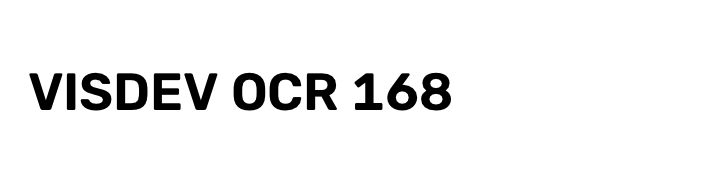
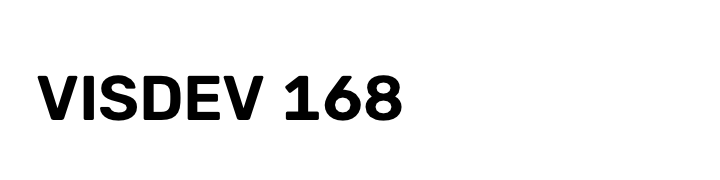
加上字元範本：讀出 VISDEV 168 並畫出外框
狀態列寫文字、個數和最低分。讀錯就不合格。
讀到的字可另送一行 VISDEV,TEXT，不改產線 OK、NG 那一行。色彩數字和 Windows 開 COM 的方式沒有改。

Changed region(s): [[0.0306, 0.3889, 0.6417, 0.6667]]

diff --git a/app/static/index.html b/app/static/index.html
@@ -22,6 +22,7 @@
             <button type="button" data-cmd="caliperTemplate">卡尺</button>
             <button type="button" data-cmd="defectTemplate">瑕疵</button>
             <button type="button" data-cmd="colorTemplate">色彩</button>
+            <button type="button" data-cmd="charsTemplate">字元</button>
             <button type="button" data-cmd="stripeTemplate">條紋寬度</button>
             <button type="button" data-cmd="lineTemplate">產線</button>
             <button type="button" data-cmd="lineCameraTemplate">產線相機</button>
@@ -306,6 +307,7 @@ endfor</pre>
         <li>零件檢測：<code>samples/parts.png</code>，8 個零件。狀態列寫個數。</li>
         <li>瑕疵：<code>samples/hard_contrast.png</code>。暗塊 1 個、面積 3550；亮點 1 個、面積 144。預設灰階是暗塊 0 到 40、亮點 210 到 255。圖形視窗可以改這兩個範圍，再按執行。</li>
         <li>色彩：<code>samples/color_part.png</code>。綠塊面積 1200、色調 60。紅塊色調是 0，灰底飽和度是 0，都不計。預設色調 50 到 70、面積 1100 到 1300。圖形視窗可以改這兩個範圍。超出時判定不合格，區域是紅色。</li>
+        <li>字元：<code>samples/ocr_label.png</code> 寫著 VISDEV 168。<code>Chars</code> 是讀到的字，狀態列寫文字。外框畫在圖上。讀對且信心至少 0.5 才合格，否則是紅色。這支用本機引擎，不把圖送到雲端。</li>
         <li>邊緣量測：<code>samples/gauge.png</code>。狀態列寫間距。</li>
         <li>卡尺：同一張圖。直徑約 83.93，寬 140，高 90。預設公差是直徑 80 到 90、寬 130 到 150、高 80 到 100。圖形視窗可以改上下限，再按執行。卡尺、條紋和瑕疵改過的範圍會記在這台電腦，再打開同一支範本會填回去。按「預設」回到程式裡的數字。存進專案的程式以檔案裡的數字為準。超出的線是紅色。</li>
         <li>條紋寬度：<code>samples/stripes.png</code>。最寬的亮條是 22，預設公差 20 到 24。圖形視窗可以改上下限，再按執行。超出時十字是紅色。</li>
@@ -318,7 +320,7 @@ endfor</pre>
       </ul>
       <p>點量規或直線量規時，可以按「線」在圖上拖。起點到終點的方向會保留。圖上已有影像時，確認前會畫出沿這條線找到的邊緣和首尾間距。</p>
       <h3>把結果送到外面</h3>
-      <p>產線輸出每一張寫一行，TCP 和序列埠相同：<code>VISDEV,OK 或 NG,合格張數,不合格張數,檔名</code>，結尾換行。合格、不合格會寫成 OK、NG。檔名用英文。範本用 loopback，<code>Wire</code> 讀回那 5 行，所以合格仍是 3、不合格仍是 2。送到外面時，把 <code>open_socket_connect</code> 的 loopback 改成主機和埠號，或改成 <code>open_serial ('COM3', Link)</code>，並拿掉 <code>receive_data</code>。Windows 開 COM 仍用原來的 API，不在這一行裡重開。</p>
+      <p>產線輸出每一張寫一行，TCP 和序列埠相同：<code>VISDEV,OK 或 NG,合格張數,不合格張數,檔名</code>，結尾換行。合格、不合格會寫成 OK、NG。檔名用英文。範本用 loopback，<code>Wire</code> 讀回那 5 行，所以合格仍是 3、不合格仍是 2。讀到的字另送一行 <code>VISDEV,TEXT,文字</code>，不改上面那一行的欄位。送到外面時，把 <code>open_socket_connect</code> 的 loopback 改成主機和埠號，或改成 <code>open_serial ('COM3', Link)</code>，並拿掉 <code>receive_data</code>。Windows 開 COM 仍用原來的 API，不在這一行裡重開。</p>
       <h3>標定</h3>
       <p>棋盤寫 <code>'5,7,10'</code>，也可以用 <code>.cpd</code> 或 <code>.descr</code>。多台相機時，每一台的第 k 組要是同時看到的同一塊板。<code>camera/pose</code> 是相對第 0 台的姿態，第 0 台是 0。標完的圖可以點某一張看原圖，再點一下回到全部。</p>
       <h3>存檔與 Windows</h3>
@@ -387,10 +389,10 @@ endfor</pre>
   <script src="/static/program_file.js?v=1"></script>
   <script src="/static/operator_call.js?v=1"></script>
   <script src="/static/pick_sync.js?v=2"></script>
-  <script src="/static/run_source.js?v=8"></script>
+  <script src="/static/run_source.js?v=9"></script>
   <script src="/static/tolerance.js?v=3"></script>
   <script src="/static/var_list.js?v=1"></script>
   <script src="/static/highlight_sync.js?v=3"></script>
-  <script src="/static/app.js?v=101"></script>
+  <script src="/static/app.js?v=102"></script>
 </body>
 </html>

diff --git a/app/static/app.js b/app/static/app.js
@@ -2544,6 +2544,9 @@ window.VisDevCommands = {
   colorTemplate() {
     return VisDevCommands.openNamedTemplate("inspect_color.viz", "這是色彩範本。綠塊面積 1200、色調 60。紅塊不算。超出就不合格。");
   },
+  charsTemplate() {
+    return VisDevCommands.openNamedTemplate("inspect_chars.viz", "這是字元範本。讀 VISDEV 168。狀態列寫文字。讀錯就不合格。");
+  },
   stripeTemplate() {
     return VisDevCommands.openNamedTemplate("inspect_stripe.viz", "這是條紋寬度範本。執行後看 Width。");
   },

diff --git a/tests/test_run_source.js b/tests/test_run_source.js
@@ -91,5 +91,12 @@ const color = run.resultSummary([
   { name: "Area", text: "[1200]" },
 ]);
 assert(color === "判定 合格 · 個數 1 · 色調 60 · 面積 1200", "a color run names hue and area");
+const chars = run.resultSummary([
+  { name: "Judge", text: "'合格'" },
+  { name: "Chars", text: "'VISDEV 168'" },
+  { name: "Count", text: "1" },
+  { name: "Score", text: "[0.91]" },
+]);
+assert(chars === "判定 合格 · 文字 VISDEV 168 · 個數 1 · 最低分 0.91", "a character run names the text");
 
 console.log("run source ok");

diff --git a/app/static/run_source.js b/app/static/run_source.js
@@ -26,6 +26,7 @@
     ["Height", "高"],
     ["Gap", "間距"],
     ["BaselineX", "基線"],
+    ["Chars", "文字"],
     ["Text", "條碼"],
     ["QrText", "二維碼"],
     ["Count", "個數"],

diff --git a/tests/test_engine.py b/tests/test_engine.py
@@ -3516,6 +3516,24 @@ def test_inspect_color_template_measures_green_area_and_hue():
     assert "#ff2a2a" in failed_colors
 
 
+def test_inspect_chars_template_reads_visdev_168():
+    session = run_source((ROOT / "samples" / "inspect_chars.viz").read_text(encoding="utf-8"))
+    assert session.error is None, session.error
+    assert session.vars["Chars"] == "VISDEV 168"
+    assert int(session.vars["Count"]) == 1
+    assert float(session.vars["Score"]) >= 0.5
+    assert session.vars["Judge"] == "合格"
+    assert session.display.base is not None
+    assert len(session.vars["Outline"].contours) >= 1
+    texts = [shape.get("text") for shape in session.public_state()["display"]["shapes"]]
+    assert "VISDEV 168" in texts
+    wrong = (ROOT / "samples" / "inspect_chars.viz").read_text(encoding="utf-8").replace("'VISDEV 168'", "'NOPE'")
+    failed = run_source(wrong)
+    assert failed.error is None, failed.error
+    assert failed.vars["Chars"] == "VISDEV 168"
+    assert failed.vars["Judge"] == "不合格"
+
+
 def test_gauge_line_failure_keeps_the_image_and_says_what_to_try():
     session = run_source(
         "Vizion.read_image (Image, 'samples/gauge.png')\n"
@@ -3638,6 +3656,14 @@ def test_line_result_goes_out_on_tcp_and_serial():
     )
     assert serial.error is None, serial.error
     assert serial.vars["Line"] == "VISDEV,NG,1,2,ng_01.png\n"
+    told = run_source(
+        "Vizion.open_serial ('loopback', Port)\n"
+        "Vizion.send_text_result (Port, 'VISDEV 168')\n"
+        "Vizion.send_line_result (Port, 'NG', 0, 1, 'ng_01.png')\n"
+        "Vizion.read_serial (Port, 47, Line)\n"
+    )
+    assert told.error is None, told.error
+    assert told.vars["Line"] == "VISDEV,TEXT,VISDEV 168\nVISDEV,NG,0,1,ng_01.png\n"
     assert format_line_result("合格", 3, 0, "ok_03.png") == "VISDEV,OK,3,0,ok_03.png\n"
     refused = run_source(
         "Vizion.open_serial ('loopback', Port)\n"

diff --git a/app/engine/chapters/line_out.py b/app/engine/chapters/line_out.py
@@ -34,6 +34,13 @@ def format_line_result(judge, ok_count, ng_count, file_name) -> str:
     return f"VISDEV,{verdict},{ok},{ng},{name}\n"
 
 
+def format_text_result(chars) -> str:
+    raw = text(chars, "Chars").strip().strip("'\"")
+    if any(ch in raw for ch in ",\r\n") or not raw.isascii():
+        raise ValueError("文字只能用英文、數字、空格和 -，中間不能有逗號")
+    return f"VISDEV,TEXT,{raw}\n"
+
+
 @operator(
     "通訊",
     [],
@@ -56,11 +63,33 @@ def format_line_result(judge, ok_count, ng_count, file_name) -> str:
 def send_line_result(link, judge, ok_count, ng_count, file_name, *, ctx):
     from ..objects import Result
 
-    payload = format_line_result(judge, ok_count, ng_count, file_name)
+    _write_link(link, format_line_result(judge, ok_count, ng_count, file_name), ctx)
+    return Result([], [])
+
+
+def _write_link(link, payload, ctx):
     if isinstance(link, SocketLink):
         send_data(link, payload, ctx=ctx)
     elif isinstance(link, SerialPort):
         write_serial(link, payload, ctx=ctx)
     else:
         raise TypeError("Link 必須是 TCP 連線或序列埠")
+
+
+@operator(
+    "通訊",
+    [],
+    [],
+    [P("Link", "TCP 連線或序列埠"), P("Chars", "讀到的文字", "''")],
+    [],
+    "送出讀到的文字",
+    "寫一行 VISDEV,TEXT,文字。結尾是換行。文字用英文、數字、空格或 -，不能有逗號。"
+    "這一行和產線的 OK、NG 那一行不同，不改合格張數。TCP 和序列埠用同一行。"
+    "Windows 的 COM 仍用原來的開啟方式。",
+    "Vizion.send_text_result (Link, 'VISDEV 168')",
+)
+def send_text_result(link, chars, *, ctx):
+    from ..objects import Result
+
+    _write_link(link, format_text_result(chars), ctx)
     return Result([], [])

diff --git a/app/engine/chapters/code_ops.py b/app/engine/chapters/code_ops.py
@@ -1047,6 +1047,33 @@ def get_text_result(result, result_name, *, ctx):
 
 @operator(
     "文字",
+    [],
+    [P("Outline", "字塊外框")],
+    [P("TextResultID", "文字結果")],
+    [],
+    "取出字塊外框",
+    "每個字塊一條閉合輪廓。沒有字時是空的。用來畫在圖上，不改讀到的字。",
+    "Vizion.get_text_object (Outline, TextResultID)",
+)
+def get_text_object(result, *, ctx):
+    if not isinstance(result, TextResult):
+        raise TypeError("TextResultID 必須是 find_text 的結果")
+    if result.closed:
+        raise RuntimeError("文字結果已經 clear_text_result")
+    contours = []
+    for item in result.words:
+        pts = np.asarray(item["points"], np.float64).reshape(-1, 2)
+        ring = [[float(point[0]), float(point[1])] for point in pts]
+        if len(ring) < 2:
+            continue
+        if ring[0] != ring[-1]:
+            ring.append(ring[0])
+        contours.append(ring)
+    return Result([XLD(max(1, result.width), max(1, result.height), contours)], [])
+
+
+@operator(
+    "文字",
     [P("Character", "要讀的區域"), P("Image", "灰階或彩色影像")],
     [],
     [P("TextModel", "文字模型")],

diff --git a/app/engine/samples_gen.py b/app/engine/samples_gen.py
@@ -293,7 +293,7 @@ def write_hard_zernike(path: Path):
 
 def write_ocr_label(path: Path):
     image = np.full((180, 720, 3), 255, np.uint8)
-    cv2.putText(image, "VISDEV OCR 168", (28, 110), cv2.FONT_HERSHEY_SIMPLEX, 1.8, (0, 0, 0), 3, cv2.LINE_AA)
+    cv2.putText(image, "VISDEV 168", (36, 120), cv2.FONT_HERSHEY_SIMPLEX, 2.2, (0, 0, 0), 5, cv2.LINE_8)
     write_cv_image(path, image)
 
 

diff --git a/README.md b/README.md
@@ -38,7 +38,7 @@ uvicorn app.main:app --host 127.0.0.1 --port 8765
 - **載入影像**把圖放進 `workspace/`，路徑可寫進 `read_image`。
 - **匯出 C#** 涵蓋讀圖、定義域、二值化、連通、篩選、矩形和圓形形態學、個數和重心。
 
-執行是 F5，單步是 F6，步進程序是 F7。跑完後，狀態列和圖形視窗會寫出直徑、寬度、間距、條碼、個數、合格或不合格。卡尺、條紋和瑕疵的上下限顯示在圖形視窗，改完再按執行即可。瑕疵這裡改的是灰階範圍。改過的範圍會記在這台電腦，再打開同一支範本會填回去。按「預設」回到程式裡的數字。產線範本讀 `samples/line_batch`，合格 3 張、不合格 2 張。不合格的圖在 `workspace/line_ng`，明細在 `workspace/line_result.csv`。這支用檔案資料夾，不開相機。產線相機用編號 0，Windows 仍先問 DirectShow，打不開再試 OpenCV。沒有相機時，請改跑檔案產線，用 `samples/line_batch`。按停止就停，已經計的張數留著。執行中狀態列也會寫出合格和不合格。明細在 `workspace/line_camera.csv`，每一列是這張的 OK 或 NG。出錯會關掉相機和 CSV。再跑一次會先清掉上一輪的不合格圖。`LastNg` 是最近一張不合格圖的檔名，全部合格時是空的。按「看不合格圖」可把它開回圖形視窗，再按一次回到程式畫面。按「看明細」可看 CSV，也可以只看不合格。點不合格那一列會打開那張圖。產線輸出把每一張的判定送成一行 `VISDEV,OK 或 NG,合格張數,不合格張數,檔名`。範本用 TCP loopback，`Wire` 讀回 5 行，合格仍是 3、不合格仍是 2。改成主機埠號或 COM 名稱就送到外面。Windows 開 COM 的方式沒有改。色彩範本讀 `samples/color_part.png`，綠塊面積 1200、色調 60，紅塊不算。色調超出 50 到 70，或面積超出 1100 到 1300，判定就是不合格。點算子名稱可改參數。有座標的算子可在圖上框選。說明選單裡的「使用說明」有每支範本和對應的數字。
+執行是 F5，單步是 F6，步進程序是 F7。跑完後，狀態列和圖形視窗會寫出直徑、寬度、間距、條碼、個數、合格或不合格。卡尺、條紋和瑕疵的上下限顯示在圖形視窗，改完再按執行即可。瑕疵這裡改的是灰階範圍。改過的範圍會記在這台電腦，再打開同一支範本會填回去。按「預設」回到程式裡的數字。產線範本讀 `samples/line_batch`，合格 3 張、不合格 2 張。不合格的圖在 `workspace/line_ng`，明細在 `workspace/line_result.csv`。這支用檔案資料夾，不開相機。產線相機用編號 0，Windows 仍先問 DirectShow，打不開再試 OpenCV。沒有相機時，請改跑檔案產線，用 `samples/line_batch`。按停止就停，已經計的張數留著。執行中狀態列也會寫出合格和不合格。明細在 `workspace/line_camera.csv`，每一列是這張的 OK 或 NG。出錯會關掉相機和 CSV。再跑一次會先清掉上一輪的不合格圖。`LastNg` 是最近一張不合格圖的檔名，全部合格時是空的。按「看不合格圖」可把它開回圖形視窗，再按一次回到程式畫面。按「看明細」可看 CSV，也可以只看不合格。點不合格那一列會打開那張圖。產線輸出把每一張的判定送成一行 `VISDEV,OK 或 NG,合格張數,不合格張數,檔名`。範本用 TCP loopback，`Wire` 讀回 5 行，合格仍是 3、不合格仍是 2。改成主機埠號或 COM 名稱就送到外面。Windows 開 COM 的方式沒有改。色彩範本讀 `samples/color_part.png`，綠塊面積 1200、色調 60，紅塊不算。色調超出 50 到 70，或面積超出 1100 到 1300，判定就是不合格。字元範本讀 `samples/ocr_label.png`，`Chars` 是 VISDEV 168，外框畫在圖上。讀錯就不合格。讀到的字可以另送一行 `VISDEV,TEXT,文字`，不改 OK、NG 那一行。點算子名稱可改參數。有座標的算子可在圖上框選。說明選單裡的「使用說明」有每支範本和對應的數字。
 
 要在 Windows 上打包，執行 `build_windows.bat`。需要 Python 3.9 或更新版本、`app/engine/visdev_match.pyd`，以及 PyInstaller。腳本會分別說明缺哪一個。執行檔在使用者的電腦上產出，是 `dist\VisDev\VisDev.exe`。
 

diff --git a/CHANGELOG.md b/CHANGELOG.md
@@ -32,6 +32,8 @@
 - 看明細可以只列出不合格的列。最後 20 列都是合格時，仍看得到較早的 NG。點不合格那一列會打開那張圖。CSV 檔不會被改寫。
 - 產線輸出範本仍是合格 3、不合格 2。每一張多送一行 `VISDEV,OK 或 NG,合格張數,不合格張數,檔名`。TCP 和序列埠同一行。這支用 loopback，`Wire` 是讀回來的 5 行。Windows 開 COM 的方式沒有改。
 - 色彩範本讀 `samples/color_part.png`。綠塊面積 1200、色調 60。紅塊和灰底不算。預設色調 50 到 70、面積 1100 到 1300。超出時判定不合格，區域改成紅色。產線計數沒有改。
+- 字元範本讀 `samples/ocr_label.png`。`Chars` 是 VISDEV 168。字塊外框畫在圖上。只有一塊、信心至少 0.5 才合格，否則圖上的字是紅色。用本機引擎，不把圖送到雲端。色彩的面積和色調沒有改。
+- 讀到的字可以另送一行 `VISDEV,TEXT,文字`。產線的 OK、NG 那一行欄位不變。TCP 和序列埠同一條路。Windows 開 COM 的方式沒有改。
 - 點量規和直線量規可以在圖上拖一條線。起點到終點的方向會保留，並填進列和行。確認列會寫出這條線的長度。圖上已有影像時，會先畫出沿這條線找到的邊緣和首尾間距。
 - 程式執行中只移動箭頭和該行的時間，不再每一步重算整份語法著色。
 - 打字或單步時，語法著色只重畫有改過的行。沒有改的行留著原來的元素，捲動和游標留在原處。`Vizion.read_image` 這類呼叫整段著成算子顏色。行號和該行時間也只改有變動的列。不到 0.001 毫秒的時間會照字顯示。

diff --git a/PLAN.md b/PLAN.md
@@ -4,13 +4,13 @@
 
 ## 已完成
 
-色彩範本讀 `samples/color_part.png`。綠塊面積 1200、色調 60。紅塊和灰底不算。合格窗口是色調 50 到 70、面積 1100 到 1300。超出時判定不合格，區域改成紅色。產線計數沒有改。
+字元範本讀 `samples/ocr_label.png`。`Chars` 是 VISDEV 168，字塊外框畫在圖上。只有一塊、信心至少 0.5 才合格。用本機引擎，不把圖送到雲端。
 
-使用說明補了「把結果送到外面」：一行是 `VISDEV,OK 或 NG,合格張數,不合格張數,檔名`。TCP 和序列埠相同。Windows 開 COM 的方式沒有改。
+讀到的字可以另送一行 `VISDEV,TEXT,文字`。產線的 OK、NG 那一行欄位沒有改。色彩的面積 1200、色調 60 沒有改。
 
 ## 接著做
 
-1. **字元檢測。** 做一支打開就能跑的範本，讀出現成圖上的文字，狀態列寫出讀到的字。不改色彩的面積和色調，也不改 Windows 開相機和開 COM 的順序。
+1. **合格字可以改。** 字元範本現在寫死 VISDEV 168。改成程式裡的預期字，圖形視窗能改，再按執行就用新的字判斷。不改讀取引擎，也不改 Windows 開相機和開 COM 的順序。
 
 ## 以後
 
